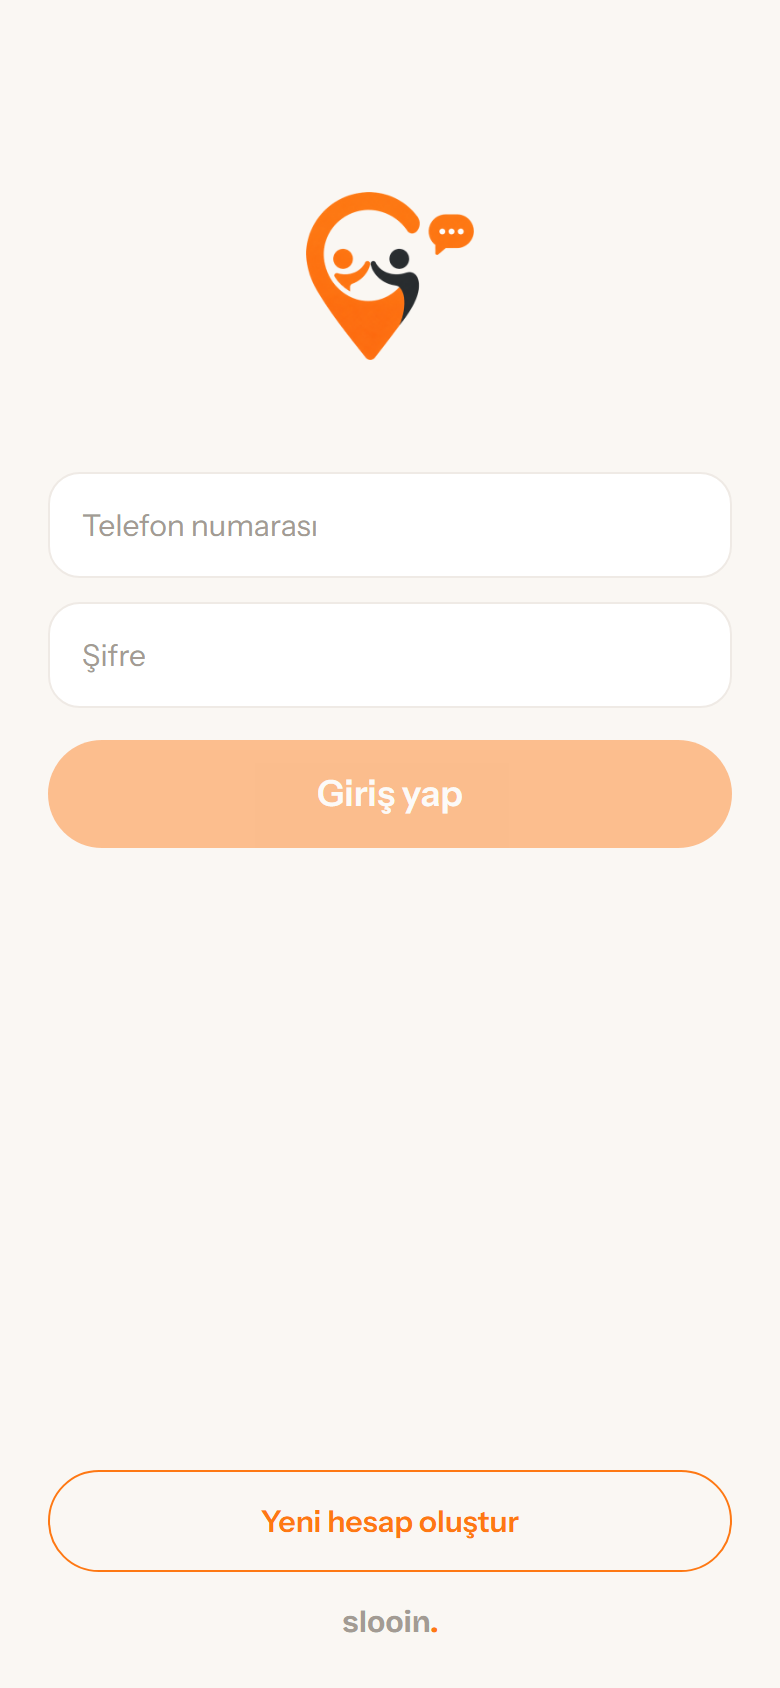
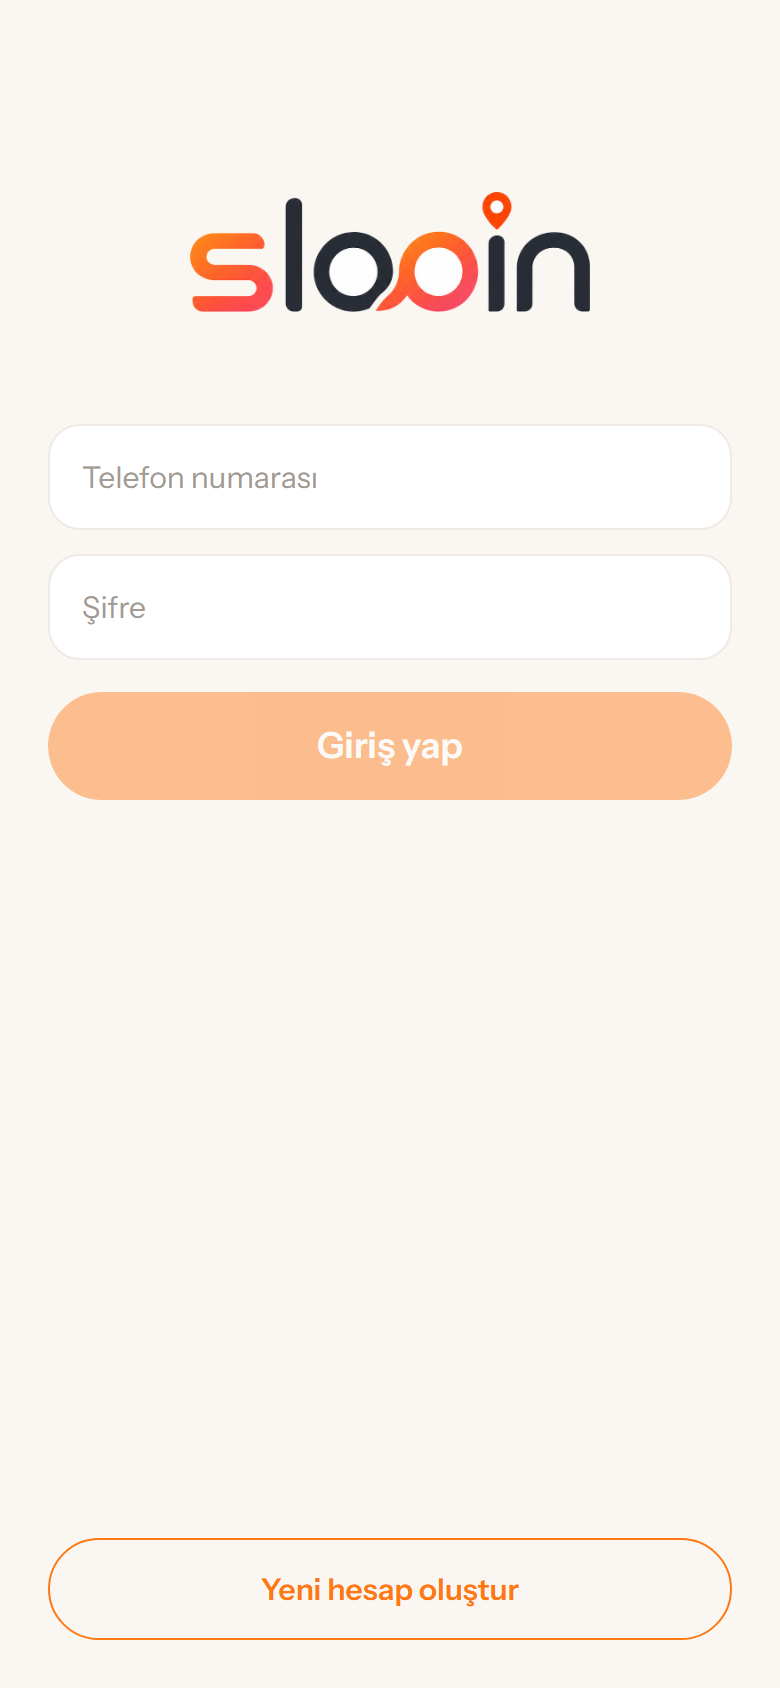
feat(marka): kelime markasi eklendi - "slooin" yazisi giris ekraninda
Kullanicinin karari (2026-08-25): "logomuz bu olucak". Kelime
markasinin icinde urunun uc unsuru gizli - ikinci "o" bir KONUSMA
BALONU, "i"nin noktasi bir KONUM IGNESI. Yani marka adi tek basina
uygulamayi anlatiyor.

ONEMLI AYRIM - kelime markasi SIMGE DEGILDIR:
Olculdu, en/boy orani 3.3. Kare bir uygulama simgesine sigdirilirsa
yuksekligi %30'da kalir ve okunmaz. Bu yuzden standart pratik
uygulandi:

  kelime markasi (MarkaYazisi)  -> ekranlar, basliklar, tanitim
  isaret (MarkaIsareti)         -> uygulama simgesi, kucuk yerler

Ayni ayrim Instagram'da da var: giris ekraninda kamera ISARETI durur,
"Instagram" yazisi ayri bir varliktir. Uygulama simgesi degismedi,
konum ignesi olarak kaliyor.

Beyaz zemin seffaflastirilirken kenardan flood fill kullanildi:
harflerin ICI de beyaz ("o" halkalari) ve duz bir renk esigi onlari da
silerdi. Kapali sekiller oldugu icin kenardan tasan dolgu yalnizca dis
zemini aliyor.

Olculen renkler: gradyan turuncudan kirmiziya (#FD5C33 -> #FD4C4B),
koyu harfler #282D36.

Giris ekraninda isaret yerine kelime markasi kullaniliyor - uygulamayi
ilk acan kisi marka ADINI gormeli. Alttaki "slooin." metni kaldirildi,
tekrar oluyordu.

Dogrulama: jest 44 paket / 378 test yesil, tsc bes taban hatasi.

Claude-Session: https://claude.ai/code/session_01LEuPYUXasxU7Pi42c4v5qi

diff --git a/mobil/src/tasarim/MarkaYazisi.tsx b/mobil/src/tasarim/MarkaYazisi.tsx
@@ -1,0 +1,37 @@
+import { Image, type ImageStyle, type StyleProp } from 'react-native'
+
+/**
+ * Slooin KELIME MARKASI - "slooin" yazisi.
+ *
+ * Kullanicinin karari (2026-08-25). Yazinin icinde urunun uc unsuru
+ * gizli: ikinci "o" bir KONUSMA BALONU, "i"nin noktasi bir KONUM
+ * IGNESI. Yani marka adi tek basina uygulamayi anlatiyor.
+ *
+ * NEREDE KULLANILIR: ekran basliklarinda, giris ekraninda, tanitim
+ * gorsellerinde - yani genislik olan yerlerde.
+ *
+ * NEREDE KULLANILMAZ: uygulama simgesi. En/boy orani 3.3; kare bir
+ * ikona sigdirilirsa yuksekligi %30'da kalir ve okunmaz. Simge icin
+ * `MarkaIsareti` (konum ignesi) kullanilir. Bu ayrim standarttir -
+ * Instagram'in giris ekraninda da kamera ISARETI durur, "Instagram"
+ * yazisi ayri bir varliktir.
+ */
+export function MarkaYazisi({
+  genislik = 180,
+  style,
+}: {
+  genislik?: number
+  style?: StyleProp<ImageStyle>
+}) {
+  // Oran sabit: kaynak gorselden olculdu (900x269).
+  const yukseklik = Math.round((genislik * 269) / 900)
+  return (
+    <Image
+      source={require('../../assets/images/marka-yazisi.png')}
+      style={[{ width: genislik, height: yukseklik }, style]}
+      resizeMode="contain"
+      accessibilityRole="image"
+      accessibilityLabel="Slooin"
+    />
+  )
+}

diff --git a/mobil/src/app/(auth)/giris.tsx b/mobil/src/app/(auth)/giris.tsx
@@ -5,7 +5,7 @@ import { supabase } from '../../../lib/supabase'
 import { eFormatinaCevir } from '../../../lib/telefon'
 import { useDil } from '../../../lib/dil'
 import { renk, yazi, olcek, bosluk, yuvarlak } from '../../tasarim/tema'
-import { MarkaIsareti } from '../../tasarim/MarkaIsareti'
+import { MarkaYazisi } from '../../tasarim/MarkaYazisi'
 
 /**
  * GIRIS - uygulamanin ilk sayfasi.
@@ -69,7 +69,10 @@ export default function GirisEkrani() {
   return (
     <View style={stiller.sayfa}>
       <View style={stiller.ust}>
-        <MarkaIsareti zemin="acik" boyut={84} />
+        {/* Kelime markasi: marka adini da gosteriyor. Isaret yerine
+            burada yazi kullaniliyor - uygulamayi ilk acan kisi adi
+            gormeli. */}
+        <MarkaYazisi genislik={200} />
       </View>
 
       <View style={stiller.form}>
@@ -127,9 +130,6 @@ export default function GirisEkrani() {
         <Text style={stiller.ikincilYazi}>{t('giris.kayitOl')}</Text>
       </Pressable>
 
-      <Text style={stiller.marka}>
-        slooin<Text style={stiller.markaNokta}>.</Text>
-      </Text>
     </View>
   )
 }
